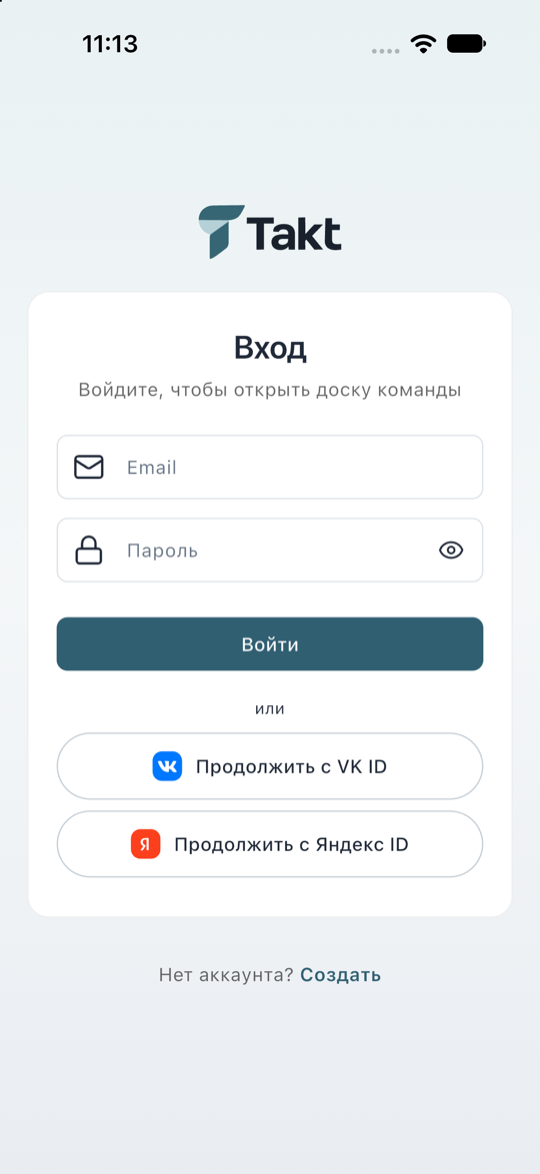
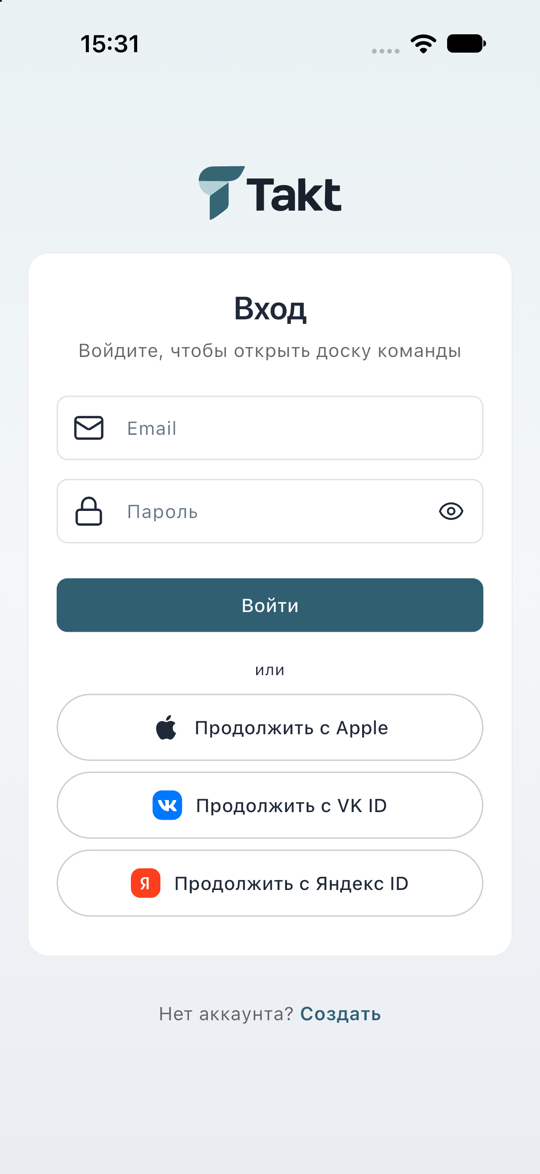
Обновить README: вход с Apple и актуальный статус OAuth.

diff --git a/docs/api.md b/docs/api.md
@@ -11,7 +11,7 @@ Health: `GET /health`. WebSocket: `WS /ws`.
 | Web | httpOnly cookies `access_token`, `refresh_token` + `csrf_token`; CSRF-заголовок на POST/PATCH/DELETE |
 | Mobile | JSON `access_token` / `refresh_token`; `Authorization: Bearer …` (CSRF не нужен) |
 
-Эндпоинты: `POST /auth/login`, `POST /auth/register/send-code`, `POST /auth/register/confirm`, `POST /auth/refresh`, `POST /auth/logout`, `GET /auth/me`.  
+Эндпоинты: `POST /auth/login`, `POST /auth/register/send-code`, `POST /auth/register/confirm`, `POST /auth/forgot-password/send-code`, `POST /auth/forgot-password/confirm`, `POST /auth/refresh`, `POST /auth/logout`, `GET /auth/me`.  
 OAuth: `GET /auth/oauth/providers`, `GET /auth/oauth/{provider}/start`, callback, `POST /auth/oauth/mobile`.
 
 ## Ресурсы

diff --git a/docs/features.md b/docs/features.md
@@ -41,6 +41,12 @@ API: `/api/v1/projects`. Web: `/app/projects`. Mobile: hub + board.
 - App Group `group.ru.gadzhilaev.takt`
 - Snapshot v3; **JWT в виджет не пишется**; после logout snapshot очищается
 
+## Auth email
+
+- Регистрация: OTP на email (`/auth/register/send-code` → `confirm`)
+- Смена пароля (в сессии): OTP (`/auth/change-password/*`)
+- Сброс забытого пароля: OTP без сессии (`/auth/forgot-password/send-code` → `confirm`); web `/forgot-password`, mobile тот же поток
+
 ## OAuth
 
 | Клиент | VK | Яндекс | Apple |

diff --git a/docs/architecture.md b/docs/architecture.md
@@ -140,7 +140,7 @@ mobile/lib/
 
 PostgreSQL 16. Технические имена по умолчанию: `track` / `track`. Хост-порт Docker: **5433**.
 
-Миграции `backend/alembic/versions/` (**001–012**, head `012_platform_admin_oauth`). Runtime: `alembic upgrade head` в lifespan.
+Миграции `backend/alembic/versions/` (**001–013**, head `013_email_code_reset_password`). Runtime: `alembic upgrade head` в lifespan.
 
 | Rev | Суть |
 |-----|------|
